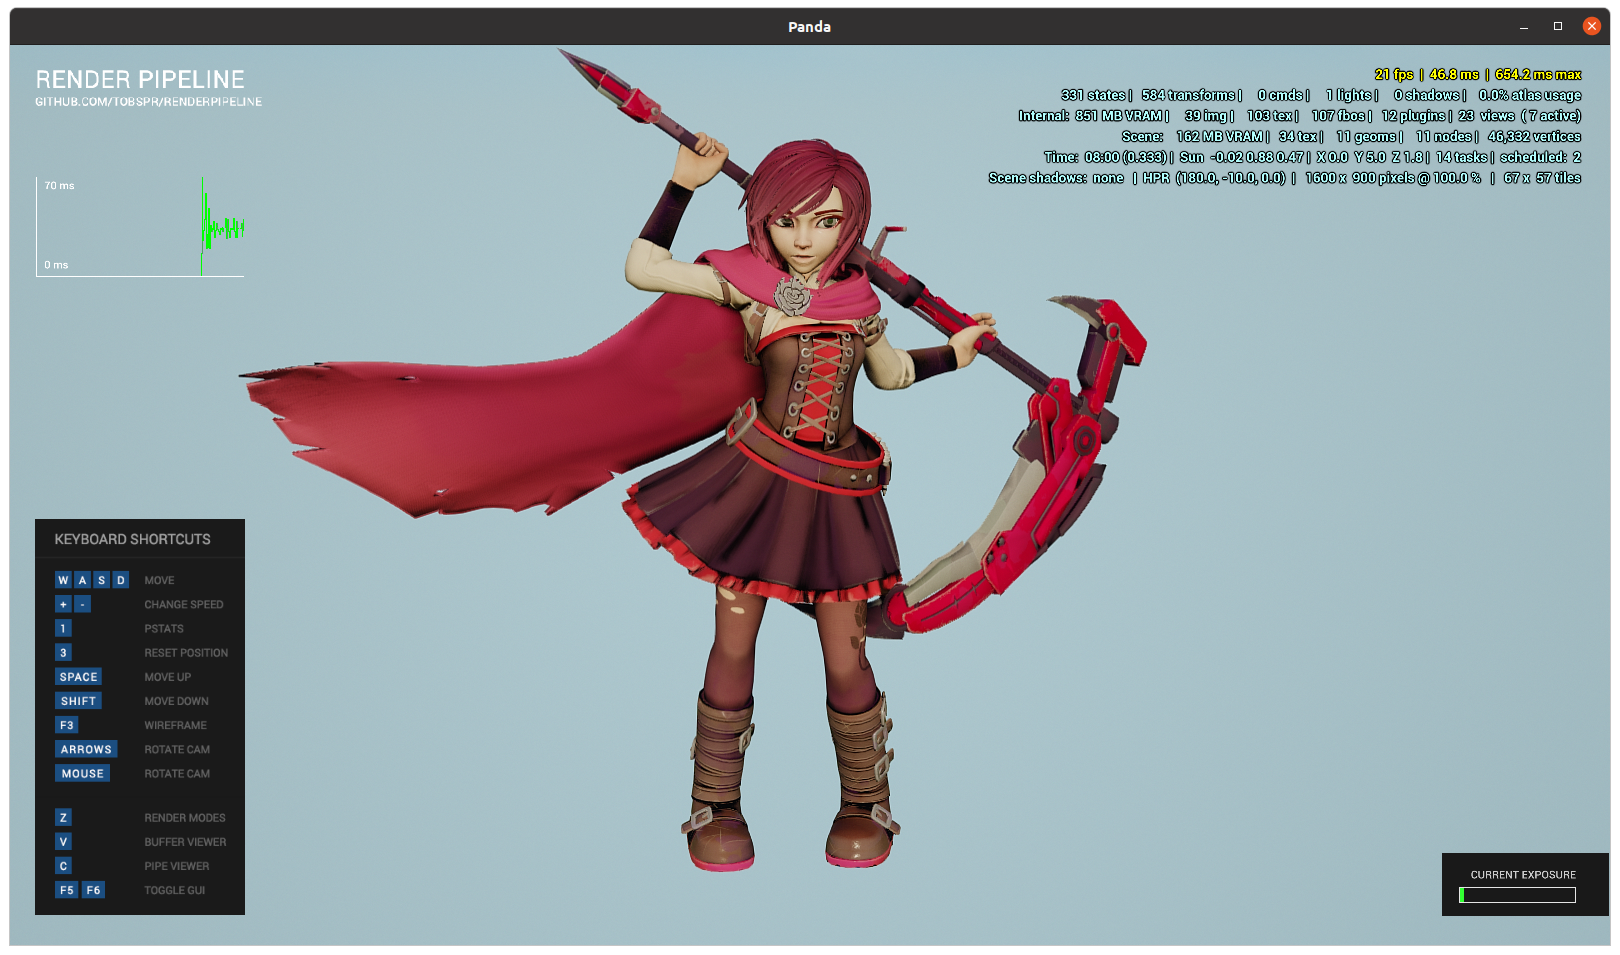
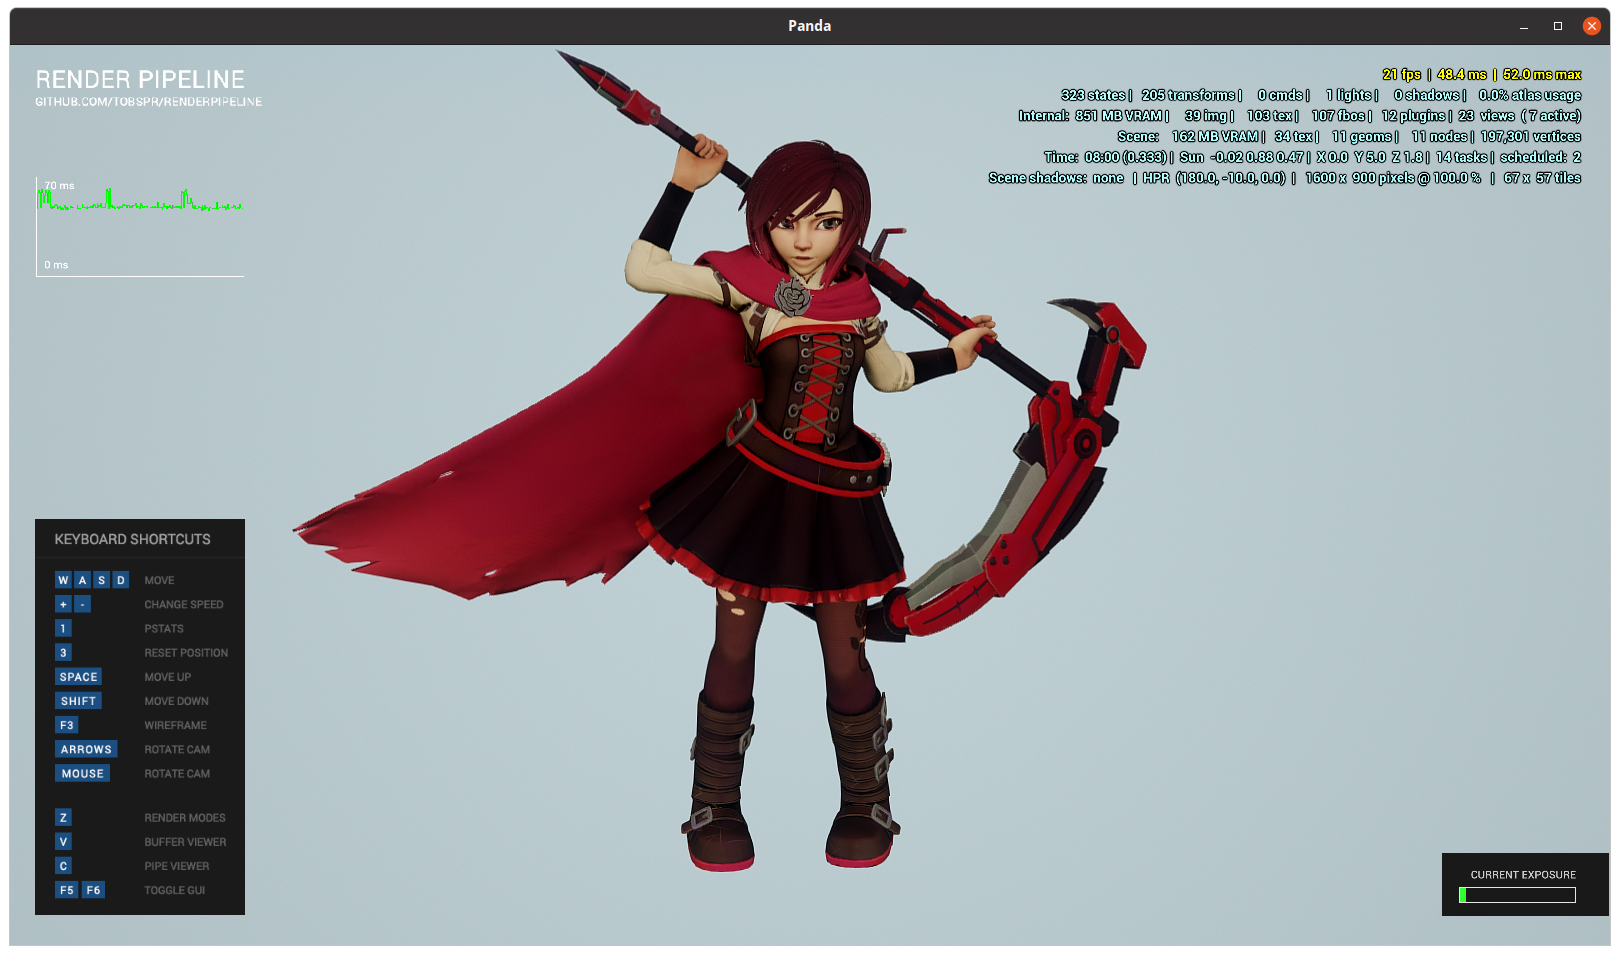
update readme and screenshot

diff --git a/examples/ruby_rose/scene_rp_gltf.py b/examples/ruby_rose/scene_rp_gltf.py
@@ -27,9 +27,7 @@ class Demo(ShowBase):
         self.point_light.set_radius(20)
         self.render_pipeline.add_light(self.point_light)
 
-        # load animations from EGG, because glTF animations aren't supported
-        self.ruby_scene = self.loader.load_model('ruby.gltf')
-        self.ruby = Actor(self.ruby_scene.find('+Character'), {'idle': 'ruby_anim.egg'})
+        self.ruby = Actor('ruby_mesh.gltf', {'idle': 'ruby_anim.egg'})
         self.ruby.reparent_to(self.render)
         self.ruby.set_h(180)
         self.ruby.loop('idle')

diff --git a/examples/snake/scene_rp_gltf.py b/examples/snake/scene_rp_gltf.py
@@ -27,8 +27,7 @@ class Demo(ShowBase):
         self.point_light.set_radius(20)
         self.render_pipeline.add_light(self.point_light)
 
-        # load animations from EGG, because glTF animations aren't supported
-        self.actor = Actor('snake.gltf', {'move': 'snake_anim.egg'})
+        self.actor = Actor('snake_mesh.b2g.gltf', {'move': 'snake_anim.b2g.gltf'})
         self.actor.reparent_to(self.render)
         self.actor.set_h(180)
         self.actor.loop('move')

diff --git a/examples/snake/scene_rp_egg.py b/examples/snake/scene_rp_egg.py
@@ -27,7 +27,7 @@ class Demo(ShowBase):
         self.point_light.set_radius(20)
         self.render_pipeline.add_light(self.point_light)
 
-        self.actor = Actor('snake.egg', {'move': 'snake_anim.egg'})
+        self.actor = Actor('snake_mesh.b2e.egg', {'move': 'snake_anim.b2e.egg'})
         self.actor.reparent_to(self.render)
         self.actor.set_h(180)
         self.actor.loop('move')

diff --git a/examples/ruby_rose/scene_rp_egg.py b/examples/ruby_rose/scene_rp_egg.py
@@ -27,7 +27,7 @@ class Demo(ShowBase):
         self.point_light.set_radius(20)
         self.render_pipeline.add_light(self.point_light)
 
-        self.ruby = Actor('ruby.egg', {'idle': 'ruby_anim.egg'})
+        self.ruby = Actor('ruby_mesh.egg', {'idle': 'ruby_anim.egg'})
         self.ruby.reparent_to(self.render)
         self.ruby.set_h(180)
         self.ruby.loop('idle')

diff --git a/README.md b/README.md
@@ -10,7 +10,8 @@ Installation
 **Installing into [Anaconda](https://www.anaconda.com/products/individual) / [Miniconda](https://docs.conda.io/en/latest/miniconda.html) Python**
 
 This is an easiest way to install.
-It uses prebuilt Blender's Python module from Anaconda Cloud. You can also build one by yourself.
+It uses [prebuilt](https://anaconda.org/kitsune.ONE/python-blender) Blender's Python module from Anaconda Cloud.
+You can also [build](https://github.com/kitsune-ONE-team/KITSUNETSUKI-SDK/tree/master/conda/blender) one by yourself.
 
 ```
 conda install -c kitsune.one python-blender
@@ -151,9 +152,9 @@ Features:
 * Export [RenderPipeline](https://github.com/tobspr/RenderPipeline) materials
 * Export Blender-calculated tangents-bitangents
 * Export NodePath "tags" from json-encoded Blender text blocks
+* Skeletal animations
 
 It's still in experimental state, so some features are still broken:
-* Can't export animations
 * Can't export specular maps
 
 glTF export requirements:
